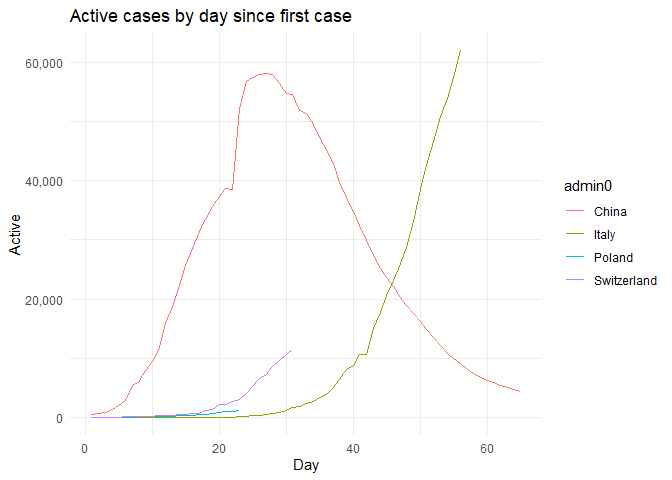
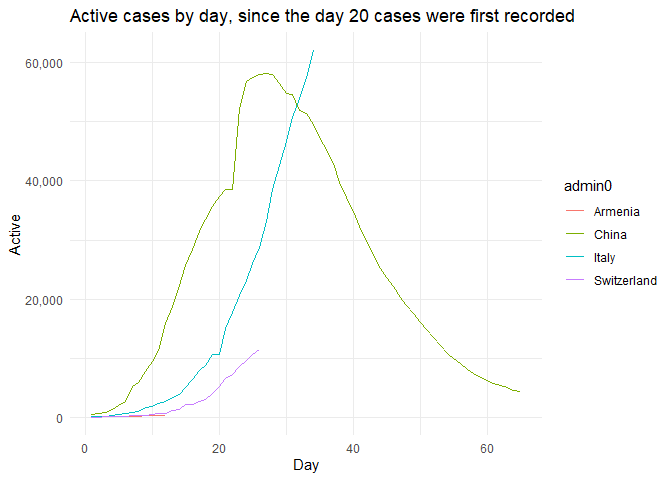
cleanup

diff --git a/README.md b/README.md
@@ -1,6 +1,11 @@
 some covid-19 charts
 ================
 
+## 
+
+switched data to the new CSSE format, something’s messed up now. Loads
+of NAs.
+
 ``` r
 Confirmed <- read_csv("https://raw.githubusercontent.com/CSSEGISandData/COVID-19/master/csse_covid_19_data/csse_covid_19_time_series/time_series_covid19_confirmed_global.csv")
 Deaths <- read_csv("https://raw.githubusercontent.com/CSSEGISandData/COVID-19/master/csse_covid_19_data/csse_covid_19_time_series/time_series_covid19_deaths_global.csv")
@@ -53,27 +58,25 @@ chart\_list defined which countries to chart. Duh.
 
 ``` r
 threshold = 20
-chart_list = c("Switzerland", "Italy", "China", "Poland")
+chart_list = c("Switzerland", "Italy", "China", "Armenia")
 ```
 
 ``` r
 all_data_admin0 <- left_join(confirmed_tidy,deaths_tidy, by = c('unique_id' = 'unique_id'))%>%
   left_join(recovered_tidy, by = c('unique_id' = 'unique_id'))%>%
-  select(-contains("."))%>%
-  select(admin0, iso_alpha3, Date, Confirmed, Deaths, Recovered) %>%
+  # select(-contains("."))%>%
+  select(admin0 = admin0.x, Date=Date.x, Confirmed, Deaths, Recovered) %>%
+  replace_na(list(Recovered = 0, Deaths = 0)) %>%
   group_by(admin0) %>%
+  filter(Confirmed > threshold) %>%
+  # group_by(admin0) %>%
   mutate(Active = (Confirmed - (Recovered + Deaths)),
-         Day = row_number(dplyr::na_if(Confirmed, 0)),
-         Mortality = Deaths/Confirmed,
-         `New cases daily percentage change` = ifelse(Confirmed > threshold,
-                                                      (Confirmed/lag(Confirmed)-1)*100, 
-                                                      NA
-         ),
-         `Active cases daily percentage change` = ifelse(Active > threshold,
-                                                      (Active/lag(Active)-1)*100, 
-                                                      NA
-         ),
-         `Daily change of daily percentage change` = `Active cases daily percentage change` - lag(`Active cases daily percentage change`)
+         Day = row_number(1:n()),
+         Mortality = Deaths/Confirmed*100,
+         `New cases daily percentage change` = (Confirmed/lag(Confirmed)-1)*100,
+         `Active cases daily percentage change` = (Active/lag(Active)-1)*100,
+         `Daily change of daily percentage change` = 
+           `Active cases daily percentage change` - lag(`Active cases daily percentage change`)
          ) 
 
 all_data_admin0 %>%
@@ -88,23 +91,20 @@ covplot + aes(x=Date, y=Active, colour=admin0) +
   labs(title = "Active cases by date, log scale", colour = "Country") 
 ```
 
-    ## Warning: Transformation introduced infinite values in continuous y-axis
-
 ![](readme_files/figure-gfm/unnamed-chunk-1-1.png)<!-- -->
 
 ``` r
 covplot + aes(x=Date, y=Active, colour=admin0) +
   aes(x=Day, y=Active, colour=admin0) +
-  scale_y_continuous(labels = scales::comma) + labs(title = "Active cases by day since first case")
+  scale_y_continuous(labels = scales::comma) + labs(title = paste("Active cases by day, since the day", threshold, "cases were first recorded"))
 ```
-
-    ## Warning: Removed 85 rows containing missing values (geom_path).
 
 ![](readme_files/figure-gfm/unnamed-chunk-1-2.png)<!-- -->
 
 ``` r
 covplot + 
   aes(x=Date, y=`New cases daily percentage change`, colour=admin0)+ geom_smooth(se=F) +
+  ylim(0, 50) +
   labs(title = "Number of new cases compared to previous day, per cent", 
        caption = "Anything above zero means new cases are being recorded. 
        Daily change of 26% means doubling of case number every 3 days.")
@@ -112,16 +112,18 @@ covplot +
 
     ## `geom_smooth()` using method = 'loess' and formula 'y ~ x'
 
-    ## Warning: Removed 119 rows containing non-finite values (stat_smooth).
+    ## Warning: Removed 14 rows containing non-finite values (stat_smooth).
 
-    ## Warning: Removed 119 rows containing missing values (geom_path).
+    ## Warning: Removed 7 rows containing missing values (geom_path).
+
+    ## Warning: Removed 22 rows containing missing values (geom_smooth).
 
 ![](readme_files/figure-gfm/unnamed-chunk-1-3.png)<!-- -->
 
 ``` r
 covplot + 
   aes(x=Date, y=`Daily change of daily percentage change`, colour=admin0) + 
-  geom_smooth(se=F) +
+  geom_smooth(se=F) + ylim(-10, 10) +
   labs(title = "Change of speed of increase of active cases", 
      caption = "Positive values mean that active cases are increasing at an increasing rate. 
      Negative values mean that active cases are increasing at a decreasing rate. 
@@ -130,9 +132,26 @@ covplot +
 
     ## `geom_smooth()` using method = 'loess' and formula 'y ~ x'
 
-    ## Warning: Removed 123 rows containing non-finite values (stat_smooth).
+    ## Warning: Removed 49 rows containing non-finite values (stat_smooth).
 
-    ## Warning: Removed 123 rows containing missing values (geom_path).
+    ## Warning in simpleLoess(y, x, w, span, degree = degree, parametric =
+    ## parametric, : span too small. fewer data values than degrees of freedom.
+
+    ## Warning in simpleLoess(y, x, w, span, degree = degree, parametric =
+    ## parametric, : pseudoinverse used at 18342
+
+    ## Warning in simpleLoess(y, x, w, span, degree = degree, parametric =
+    ## parametric, : neighborhood radius 2.025
+
+    ## Warning in simpleLoess(y, x, w, span, degree = degree, parametric =
+    ## parametric, : reciprocal condition number 0
+
+    ## Warning in simpleLoess(y, x, w, span, degree = degree, parametric =
+    ## parametric, : There are other near singularities as well. 9.1506
+
+    ## Warning: Removed 20 rows containing missing values (geom_path).
+
+    ## Warning: Removed 12 rows containing missing values (geom_smooth).
 
 ![](readme_files/figure-gfm/unnamed-chunk-1-4.png)<!-- -->
 
